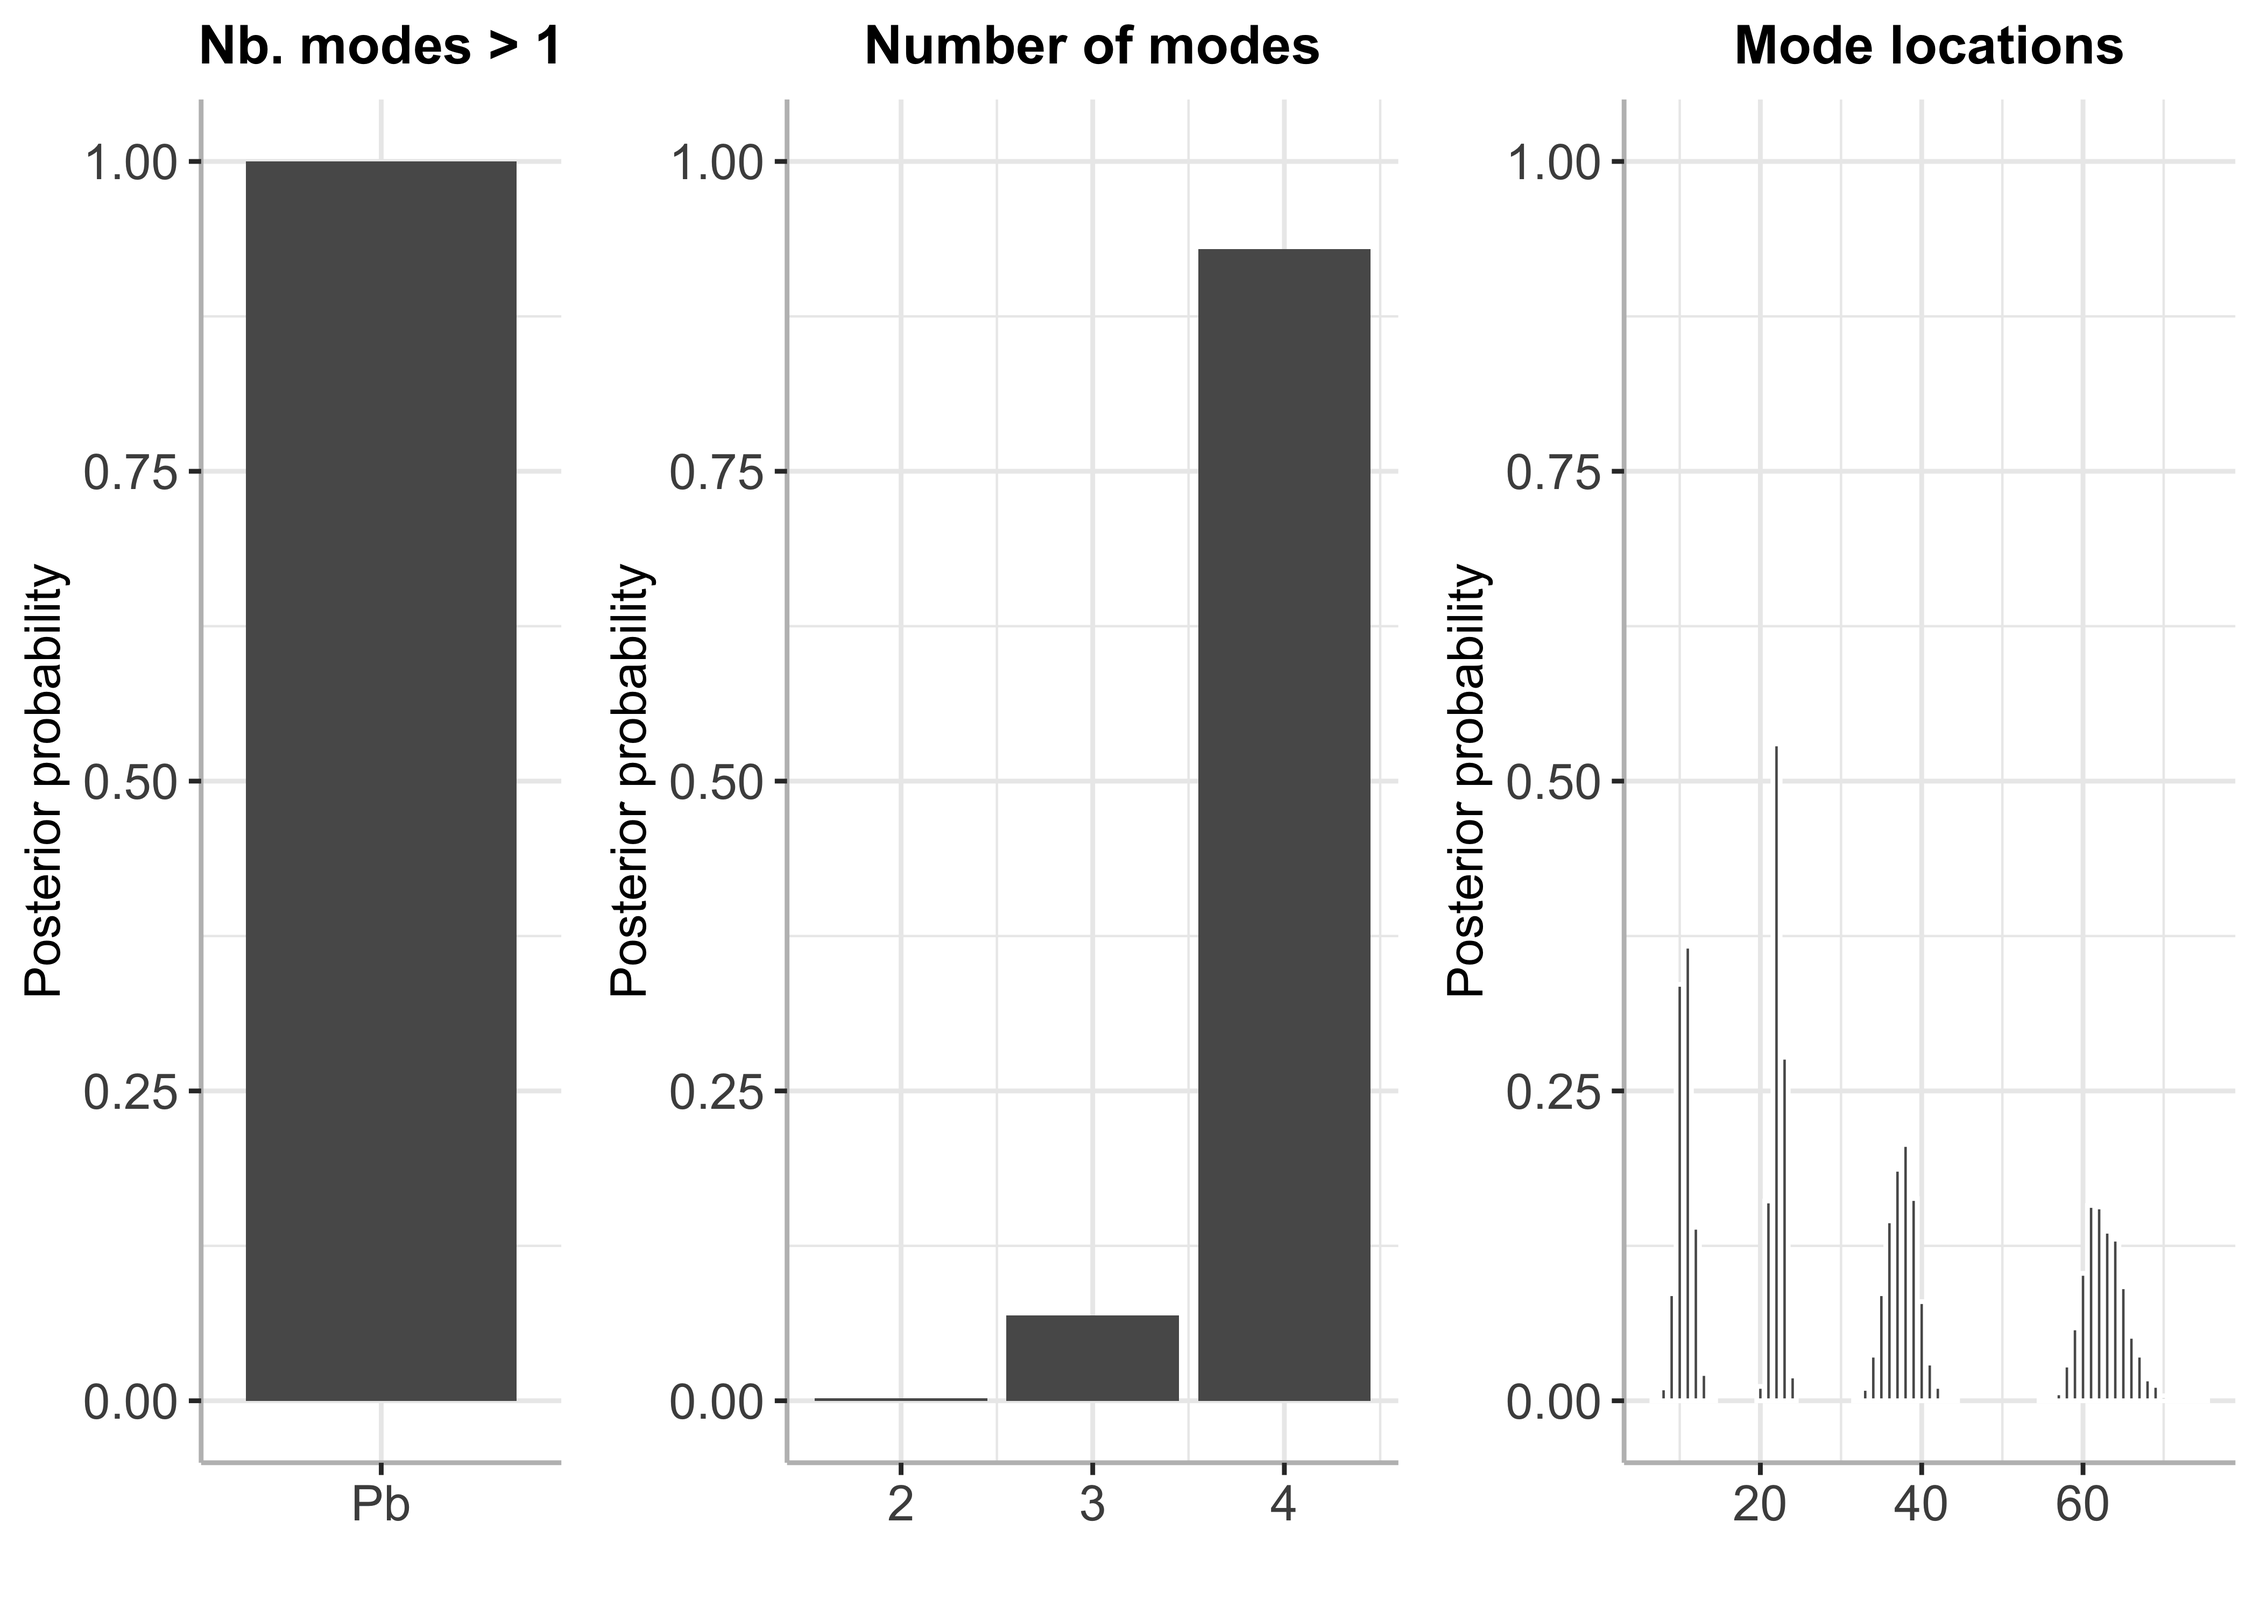
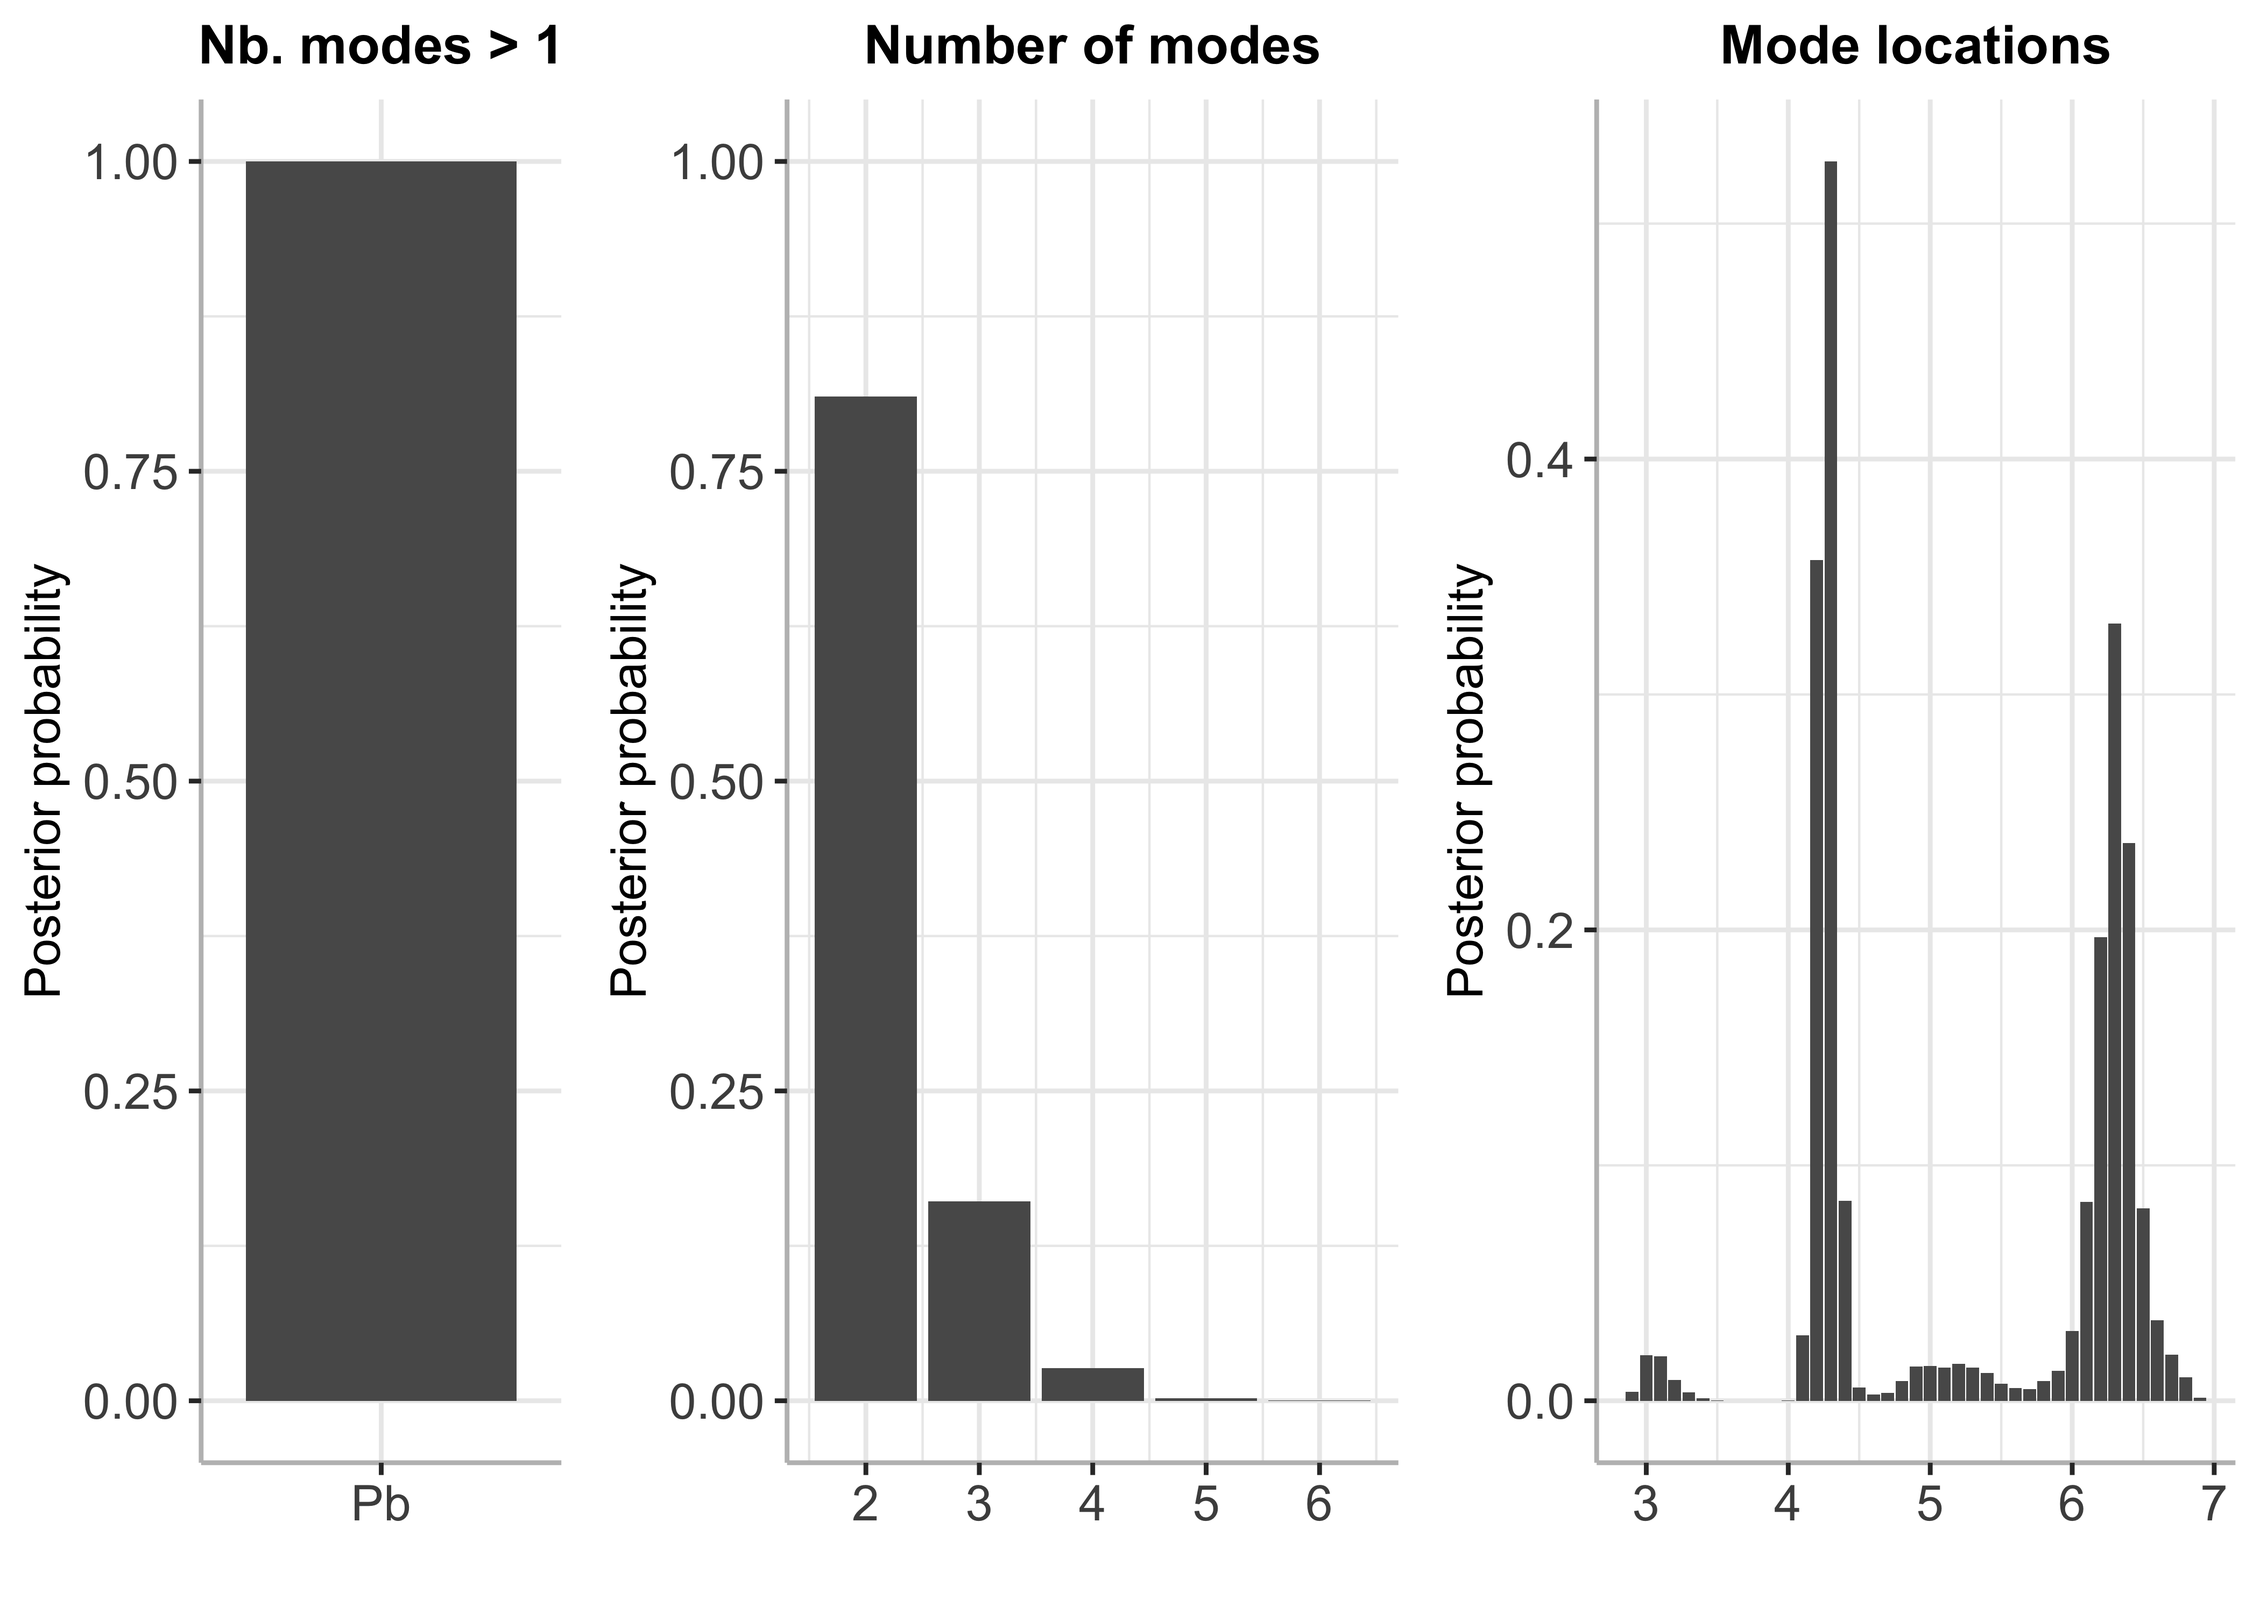
updated readme

Changed region(s): [[0.655, 0.0, 0.9981, 0.961], [0.3431, 0.062, 0.6238, 0.961], [0.7798, 0.899, 0.811, 0.961]]

diff --git a/README.md b/README.md
@@ -7,15 +7,15 @@ BayesMultiMode
 [![CRAN_Status_Badge](https://www.r-pkg.org/badges/version/BayesMultiMode)](https://cran.r-project.org/package=BayesMultiMode)
 <!-- badges: end -->
 
-An R package for detecting and exploring multimodality using Bayesian
-techniques. The approach works in two stages. First, a mixture
-distribution is fitted on the data. The number of mixture components
-does not have to be specified; it can be estimated simultaneously with
-the mixture weights and components through a Sparse Finite Mixture
-approach. Second, the resulting MCMC draws are used to calculate the
-number of modes and their locations. Posterior probabilities are
-retrieved for both of these quantities providing a powerful tool for
-mode inference.
+`BayesMultiMode` is an R package for detecting and exploring
+multimodality using Bayesian techniques. The approach works in two
+stages. First, a mixture distribution is fitted on the data. The number
+of mixture components does not have to be specified; the size of the
+mixture is estimated simultaneously with the mixture weights and
+components through a Sparse Finite Mixture approach. Second, the
+resulting MCMC draws are used to calculate the number of modes and their
+locations. Posterior probabilities are retrieved for both of these
+quantities providing a powerful tool for mode inference.
 
 ### Installing BayesMultiMode from CRAN
 
@@ -36,41 +36,42 @@ devtools::install_github("paullabonne/BayesMultiMode")
 library(BayesMultiMode)
 ```
 
-### Illustration with discrete data
+### Using BayesMultiMode for both MCMC estimation and mode inference
+
+`BayesMultiMode` provides a very flexible and efficient MCMC estimation
+approach : it handles mixtures with unknown number of components and
+supports a comprehensive range of mixture distributions, both continuous
+and discrete.
 
 #### Estimation
 
 ``` r
-# retrieve DNA data
-y = d4z4
+# retrieve acidity data
+y = multimode::acidity
 
 # estimation
 bayesmix = bayes_estimation(data = y,
                             K = 5,
-                            dist = "shifted_poisson",
+                            dist = "skew_normal",
                             nb_iter = 2000,
                             burnin = 1000)
 ```
 
-    ## 10  % draws finished. Accept. prob of e0 = 14 percent
-    ## 20  % draws finished. Accept. prob of e0 = 14 percent
-    ## 30  % draws finished. Accept. prob of e0 = 13 percent
-    ## 40  % draws finished. Accept. prob of e0 = 12 percent
-    ## 50  % draws finished. Accept. prob of e0 = 12 percent
-    ## 60  % draws finished. Accept. prob of e0 = 12 percent
-    ## 70  % draws finished. Accept. prob of e0 = 11 percent
-    ## 80  % draws finished. Accept. prob of e0 = 11 percent
-    ## 90  % draws finished. Accept. prob of e0 = 11 percent
-    ## 100  % draws finished. Accept. prob of e0 = 11 percent
+    ## 10  % draws finished
+    ## 20  % draws finished
+    ## 30  % draws finished
+    ## 40  % draws finished
+    ## 50  % draws finished
+    ## 60  % draws finished
+    ## 70  % draws finished
+    ## 80  % draws finished
+    ## 90  % draws finished
+    ## 100  % draws finished
 
 ``` r
 # plot estimated mixture
 plot(bayesmix, max_size = 200)
 ```
-
-    ## Warning: Removed 41 rows containing missing values (`position_stack()`).
-
-    ## Warning: Removed 86400 rows containing missing values (`geom_line()`).
 
 <img src="README_files/figure-gfm/unnamed-chunk-4-1.png" width="70%" style="display: block; margin: auto;" />
 
@@ -86,68 +87,130 @@ plot(bayesmode, max_size = 200)
 
 <img src="README_files/figure-gfm/unnamed-chunk-5-1.png" width="70%" style="display: block; margin: auto;" />
 
-### Illustration with continuous data
-
-#### Estimation
-
 ``` r
-# retrieve galaxy data
-y = galaxy
-
-# estimation
-bayesmix = bayes_estimation(data = y,
-                            K = 4,
-                            dist = "normal",
-                            nb_iter = 2000,
-                            burnin = 1000,
-                            chains = 1,
-                            G0 = 0)
+# Summary 
+summary(bayesmode)
 ```
 
+    ## The posterior probability of the data being multimodal is 1 .
     ## 
-    ## SAMPLING FOR MODEL 'normal_mixture' NOW (CHAIN 1).
-    ## Chain 1: 
-    ## Chain 1: Gradient evaluation took 4.6e-05 seconds
-    ## Chain 1: 1000 transitions using 10 leapfrog steps per transition would take 0.46 seconds.
-    ## Chain 1: Adjust your expectations accordingly!
-    ## Chain 1: 
-    ## Chain 1: 
-    ## Chain 1: Iteration:    1 / 2000 [  0%]  (Warmup)
-    ## Chain 1: Iteration: 1000 / 2000 [ 50%]  (Warmup)
-    ## Chain 1: Iteration: 1001 / 2000 [ 50%]  (Sampling)
-    ## Chain 1: Iteration: 2000 / 2000 [100%]  (Sampling)
-    ## Chain 1: 
-    ## Chain 1:  Elapsed Time: 0.829 seconds (Warm-up)
-    ## Chain 1:                0.365 seconds (Sampling)
-    ## Chain 1:                1.194 seconds (Total)
-    ## Chain 1:
+    ## The number of estimated modes and their posterior probabilities is:
+    ##      Number of modes Posterior probabilty
+    ## [1,]               2                0.986
+    ## [2,]               3                0.014
+
+### Using BayesMultiMode for mode inference with external MCMC output
+
+`BayesMultiMode` also works on MCMC output generated using external
+software. The function `new_BayesMixture()` creates an object of class
+`BayesMixture` which can then be used as input in the mode inference
+function of `bayes_mode()`. Here is an example where the `BNPmix`
+package is used for MCMC estimation.
 
 ``` r
-# plot estimated mixture
-plot(bayesmix, max_size = 200)
+library(BNPmix)
+
+y = multimode::acidity
+
+## estimation
+PY_result = PYdensity(y,
+                     mcmc = list(niter = 10000, nburn = 5000),
+                     output = list(out_param = TRUE))
 ```
 
-    ## Warning: The dot-dot notation (`..density..`) was deprecated in ggplot2 3.4.0.
-    ## ℹ Please use `after_stat(density)` instead.
-    ## ℹ The deprecated feature was likely used in the BayesMultiMode package.
-    ##   Please report the issue at
-    ##   <]8;;https://github.com/paullabonne/BayesMultiMode/issueshttps://github.com/paullabonne/BayesMultiMode/issues]8;;>.
+    ## Completed:   1000/10000 - in 0.109396 sec
+    ## Completed:   2000/10000 - in 0.224506 sec
+    ## Completed:   3000/10000 - in 0.330747 sec
+    ## Completed:   4000/10000 - in 0.441394 sec
+    ## Completed:   5000/10000 - in 0.552644 sec
+    ## Completed:   6000/10000 - in 0.67687 sec
+    ## Completed:   7000/10000 - in 0.790151 sec
+    ## Completed:   8000/10000 - in 0.904305 sec
+    ## Completed:   9000/10000 - in 1.01536 sec
+    ## Completed:   10000/10000 - in 1.12912 sec
+    ## 
+    ## Estimation done in 1.12913 seconds
+
+``` r
+plot(PY_result)
+```
 
 <img src="README_files/figure-gfm/unnamed-chunk-6-1.png" width="70%" style="display: block; margin: auto;" />
+
+#### Transforming the output into a mcmc matrix with one column per variable
+
+``` r
+library(dplyr)
+
+mcmc_py = list()
+
+for (i in 1:length(PY_result$p)) {
+  k = length(PY_result$p[[i]][, 1])
+  
+  draw = c(PY_result$p[[i]][, 1],
+           PY_result$mean[[i]][, 1],
+           sqrt(PY_result$sigma2[[i]][, 1]),
+           i)
+  
+  names(draw)[1:k] = paste0("theta", 1:k)
+  names(draw)[(k+1):(2*k)] = paste0("mu", 1:k)
+  names(draw)[(2*k+1):(3*k)] = paste0("sigma", 1:k)
+  names(draw)[3*k + 1] = "draw"
+  
+  mcmc_py[[i]] = draw
+}
+
+mcmc_py = bind_rows(mcmc_py)
+
+##
+pars_names = c(theta = "theta",
+               mu = "mu",
+               sigma = "sigma")
+```
+
+#### Creating an object of class `BayesMixture`
+
+``` r
+py_BayesMix = new_BayesMixture(mcmc = mcmc_py,
+                               data = y,
+                               K = (ncol(mcmc_py)-1)/3,
+                               burnin = 0, # the burnin has already been discarded
+                               dist = "normal",
+                               pars_names = pars_names,
+                               dist_type = "continuous")
+```
 
 #### Mode inference
 
 ``` r
-# Mode Estimation
-bayesmode = bayes_mode(bayesmix)
+# mode estimation
+bayesmode = bayes_mode(py_BayesMix)
 
-# Plot 
+# plot 
 plot(bayesmode, max_size = 200)
 ```
 
-<img src="README_files/figure-gfm/unnamed-chunk-7-1.png" width="70%" style="display: block; margin: auto;" />
+<img src="README_files/figure-gfm/unnamed-chunk-9-1.png" width="70%" style="display: block; margin: auto;" />
+
+``` r
+# Summary 
+summary(bayesmode)
+```
+
+    ## The posterior probability of the data being multimodal is 1 .
+    ## 
+    ## The number of estimated modes and their posterior probabilities is:
+    ##      Number of modes Posterior probabilty
+    ## [1,]               2               0.8104
+    ## [2,]               3               0.1608
+    ## [3,]               4               0.0264
+    ## [4,]               5               0.0022
+    ## [5,]               6               0.0002
 
 ### References
+
+(Basturk, Hoogerheide, and Dijk 2021) (Malsiner-Walli,
+Fruhwirth-Schnatter, and Grun 2016) (Schaap et al. 2013)
 
 <div id="refs" class="references csl-bib-body hanging-indent">
 
